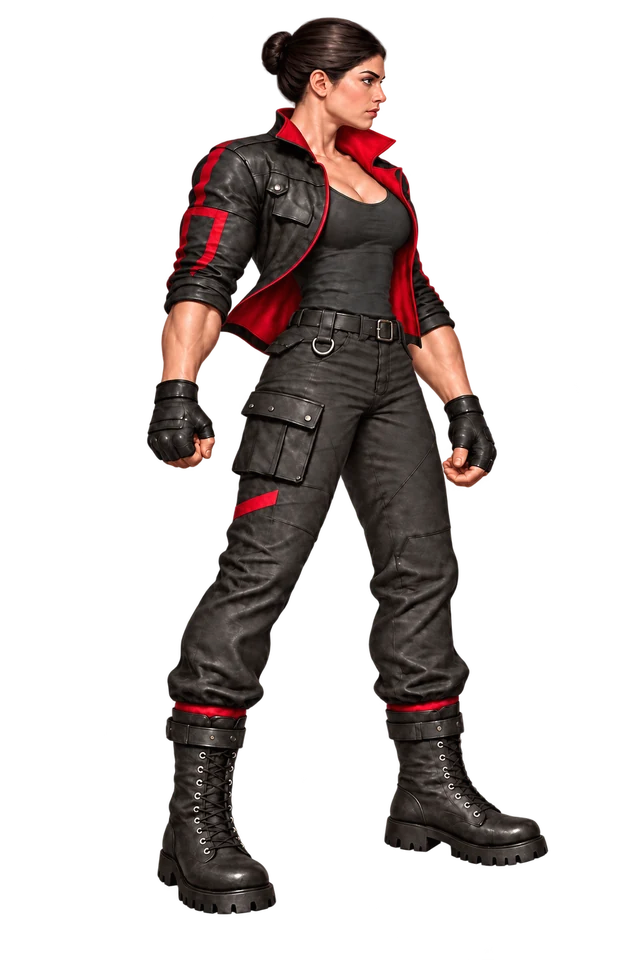
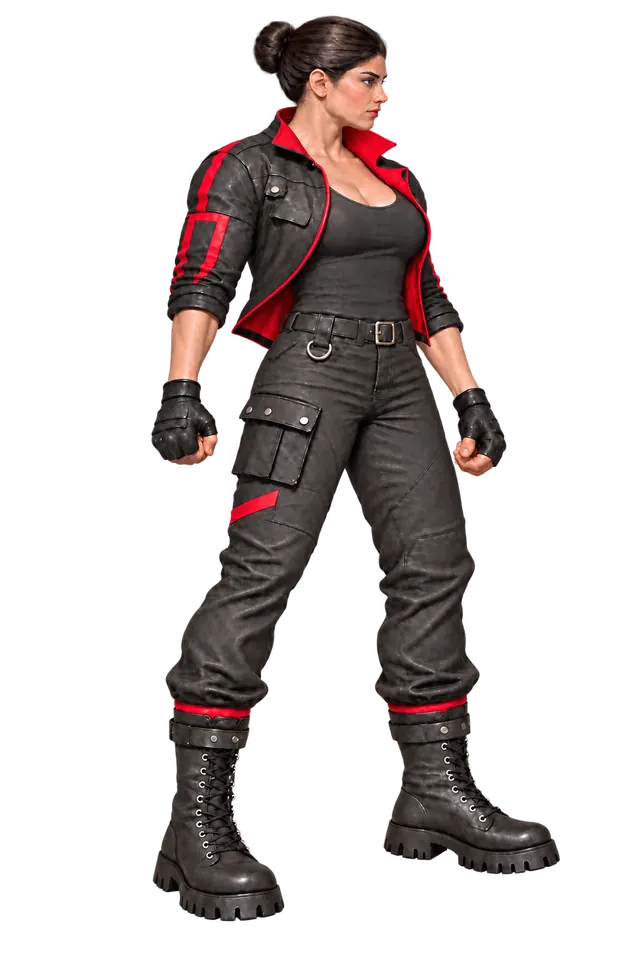
Update in-game human portraits and refine A

Changed region(s): [[0.2188, 0.0, 0.875, 0.9688], [0.5312, 0.4688, 0.5625, 0.5312]]

diff --git a/game.js b/game.js
@@ -4,7 +4,7 @@ const PEOPLE = {
   C: {
     age: "Teenager",
     accent: "#aa78ef",
-    art: { human: "assets/forms/c-human.webp", selectionHuman: "assets/forms/c-human-eye-gap-20261008.webp", run: "assets/forms/c-human-run.webp", flight: "assets/forms/c-flight.webp", flightRun: "assets/forms/c-flight-run.webp", chaos: "assets/forms/c-chaos.webp", chaosRun: "assets/forms/c-chaos-run.webp" },
+    art: { human: "assets/forms/c-human-eye-gap-20261008.webp", selectionHuman: "assets/forms/c-human-eye-gap-20261008.webp", run: "assets/forms/c-human-run.webp", flight: "assets/forms/c-flight.webp", flightRun: "assets/forms/c-flight-run.webp", chaos: "assets/forms/c-chaos.webp", chaosRun: "assets/forms/c-chaos-run.webp" },
     human: { animal: "Human", ability: "Improvised vault", description: "Find the shortcut by confidently making one up." },
     flight: { animal: "Flamingo", ability: "Stilt vault", description: "Take real, high-stepping strides across the ground, then lift off." },
     chaos: { animal: "Red fox", ability: "Burrow dash", description: "Dig shortcuts and outfox objects with no brain." }
@@ -12,7 +12,7 @@ const PEOPLE = {
   A: {
     age: "Adult",
     accent: "#d84c59",
-    art: { human: "assets/forms/a-human.webp", selectionHuman: "assets/forms/a-human-approved-20261008.webp", run: "assets/forms/a-human-run.webp", flight: "assets/forms/a-raven.webp", flightRun: "assets/forms/a-raven-run.webp", peacock: "assets/forms/a-flight.webp", peacockRun: "assets/forms/a-flight-run.webp", chaos: "assets/forms/a-chaos.webp", chaosRun: "assets/forms/a-chaos-run.webp", bite: "assets/forms/a-wolf-bite.webp" },
+    art: { human: "assets/forms/a-human-approved-20261008.webp", selectionHuman: "assets/forms/a-human-approved-20261008.webp", run: "assets/forms/a-human-run.webp", flight: "assets/forms/a-raven.webp", flightRun: "assets/forms/a-raven-run.webp", peacock: "assets/forms/a-flight.webp", peacockRun: "assets/forms/a-flight-run.webp", chaos: "assets/forms/a-chaos.webp", chaosRun: "assets/forms/a-chaos-run.webp", bite: "assets/forms/a-wolf-bite.webp" },
     human: { animal: "Human", ability: "Protective force", description: "Remove an obstacle from everyone else's problem list." },
     flight: { animal: "Raven", ability: "Hooked-beak rush", description: "A huge raven with a beak built for dramatic entrances." },
     chaos: { animal: "Giant black wolf", ability: "Bite · E / Pack-force smash · R", description: "Bite, then clear a path with enormous protective wolf energy." }
@@ -20,7 +20,7 @@ const PEOPLE = {
   S: {
     age: "Adult",
     accent: "#91a99b",
-    art: { human: "assets/forms/s-human.webp", selectionHuman: "assets/forms/s-human-straight-20261008.webp", run: "assets/forms/s-human-run.webp", flight: "assets/forms/s-flight.webp", flightRun: "assets/forms/s-flight-run.webp", chaos: "assets/forms/s-chaos.webp", chaosRun: "assets/forms/s-chaos-run.webp" },
+    art: { human: "assets/forms/s-human-straight-20261008.webp", selectionHuman: "assets/forms/s-human-straight-20261008.webp", run: "assets/forms/s-human-run.webp", flight: "assets/forms/s-flight.webp", flightRun: "assets/forms/s-flight-run.webp", chaos: "assets/forms/s-chaos.webp", chaosRun: "assets/forms/s-chaos-run.webp" },
     human: { animal: "Human", ability: "Rapid plan", description: "Think three moves ahead, then run there immediately." },
     flight: { animal: "Crow", ability: "Bright idea", description: "Glide, scout, and attract useful shiny things." },
     chaos: { animal: "Slim black panther", ability: "Silent pounce", description: "Slip out of sight, then reappear exactly where useful." }
@@ -28,7 +28,7 @@ const PEOPLE = {
   E: {
     age: "Preteen",
     accent: "#20c9c3",
-    art: { human: "assets/forms/e-human.webp", selectionHuman: "assets/forms/e-human-bangs-20261008.webp", run: "assets/forms/e-human-run.webp", flight: "assets/forms/e-flight.webp", flightRun: "assets/forms/e-flight-run.webp", chaos: "assets/forms/e-chaos.webp", chaosRun: "assets/forms/e-chaos-run.webp" },
+    art: { human: "assets/forms/e-human-bangs-20261008.webp", selectionHuman: "assets/forms/e-human-bangs-20261008.webp", run: "assets/forms/e-human-run.webp", flight: "assets/forms/e-flight.webp", flightRun: "assets/forms/e-flight-run.webp", chaos: "assets/forms/e-chaos.webp", chaosRun: "assets/forms/e-chaos-run.webp" },
     human: { animal: "Human", ability: "Quick thinking", description: "A small person with an alarmingly large speed boost." },
     flight: { animal: "Snowy owl", ability: "Night sight", description: "Glide silently, spot hidden things, and vanish into the snow." },
     chaos: { animal: "Cheetah", ability: "Fast as heck", description: "Turn a tiny opening into a full-speed blur." }
@@ -36,7 +36,7 @@ const PEOPLE = {
 };
 
 const order = ["C", "A", "S", "E"];
-const ART_REVISION = "case-20261008-15";
+const ART_REVISION = "case-20261009-16";
 for (const person of Object.values(PEOPLE)) {
   for (const key of Object.keys(person.art)) person.art[key] += `?v=${ART_REVISION}`;
 }

diff --git a/index.html b/index.html
@@ -84,6 +84,6 @@
     </section>
   </main>
 
-  <script src="game.js?v=case-20261008-15"></script>
+  <script src="game.js?v=case-20261009-16"></script>
 </body>
 </html>
